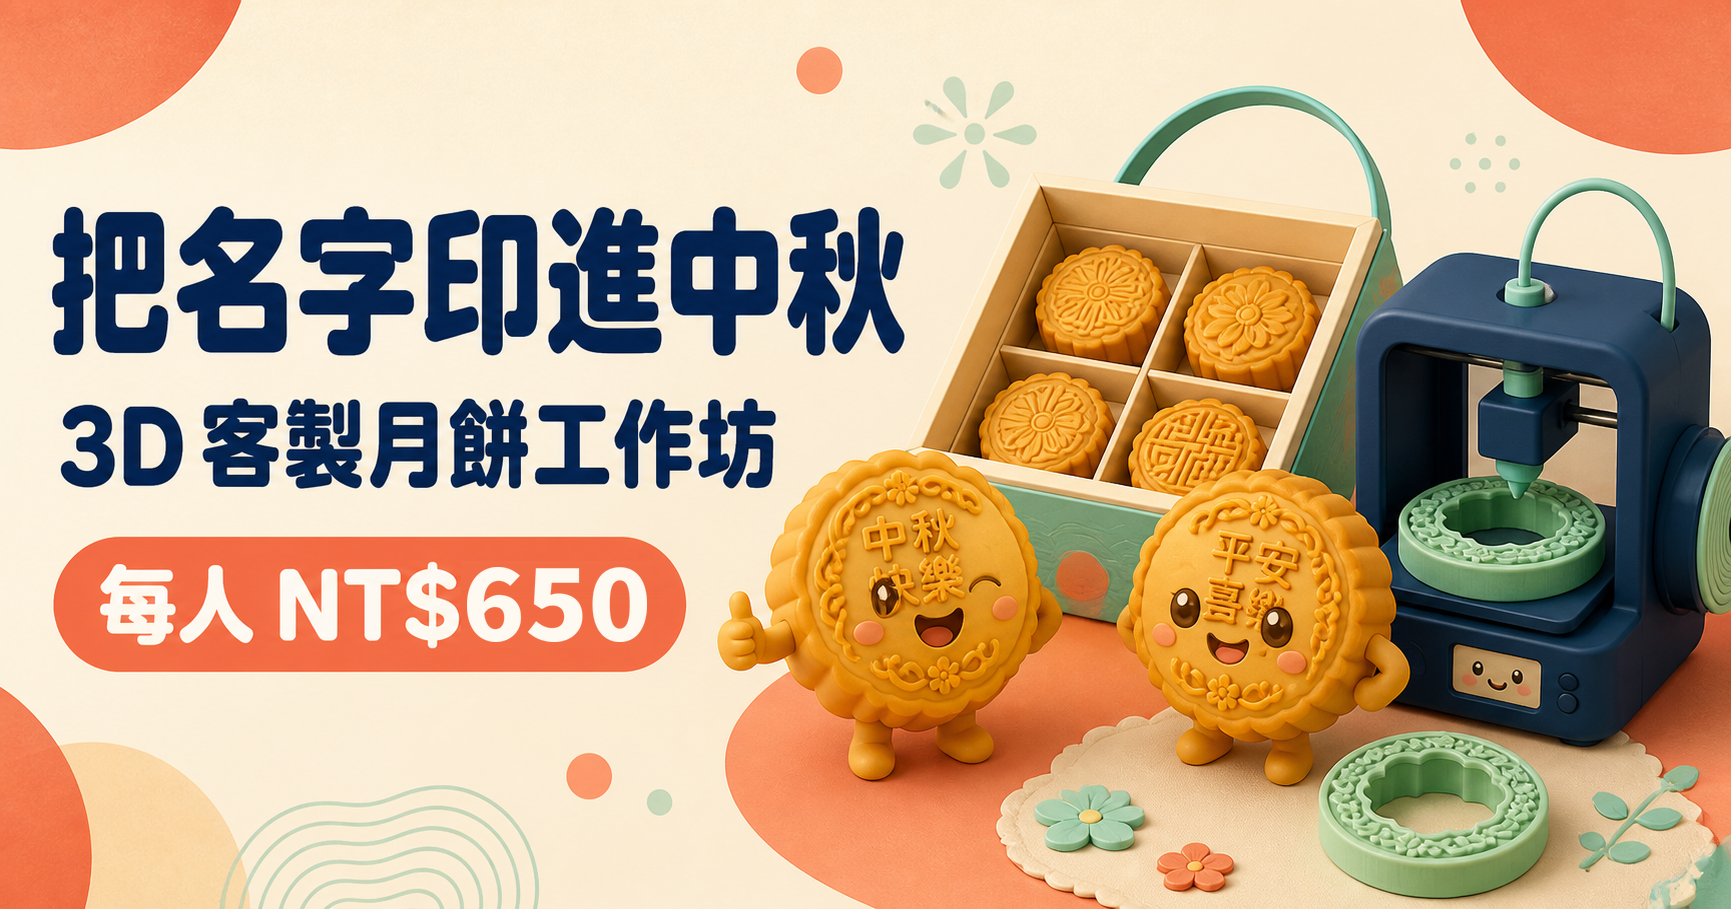
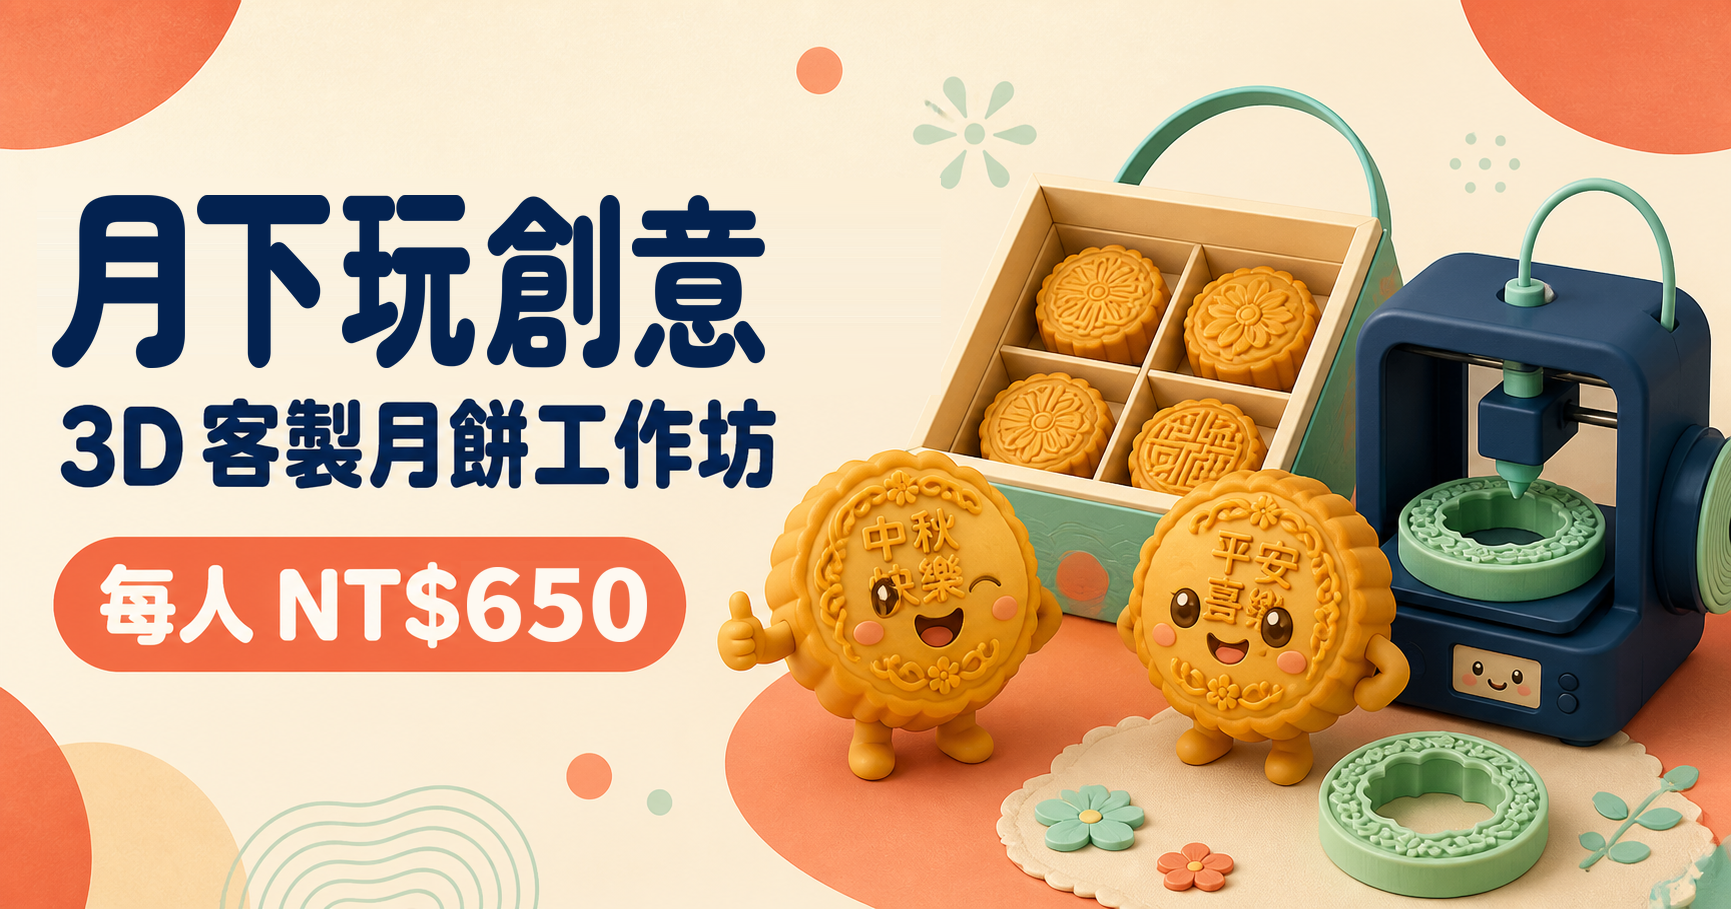
OG 分享圖上的標題也換成「月下玩創意」
貼網址時的預覽卡片，圖上那行大字原本是燒進圖片裡的「把名字印進中秋」，
改程式碼改不到。這次把舊字塗掉、用同樣的圓體重描上新名稱，
og.jpg 與 1731×909 的原始 og.png 一起更新。

同時把 socialImage 的 ?v 從 650 改成 20260901，
避免 LINE／Facebook 繼續拿快取裡的舊圖。

Claude-Session: https://claude.ai/code/session_01PEZ1t2kXAcmxRUNuUNhKqx

Changed region(s): [[0.0312, 0.2156, 0.5303, 0.4004]]

diff --git a/app/layout.tsx b/app/layout.tsx
@@ -10,7 +10,7 @@ export async function generateMetadata(): Promise<Metadata> {
   const host = requestHeaders.get("x-forwarded-host") ?? requestHeaders.get("host") ?? "localhost:3000";
   const protocol = requestHeaders.get("x-forwarded-proto") ?? (host.includes("localhost") ? "http" : "https");
   const origin = `${protocol}://${host}`;
-  const socialImage = `${origin}/og.jpg?v=650`;
+  const socialImage = `${origin}/og.jpg?v=20260901`;
 
   return {
     title,

diff --git a/CLAUDE.md b/CLAUDE.md
@@ -32,12 +32,16 @@
 - **活動日期／價格／梯次寫死在程式碼裡**：`app/page.tsx` 的 `schedule`、`process` 陣列，
   以及 `app/api/register/route.ts` 的 `sessionLabels`。改場次要**兩邊一起改**，
   只改前端會讓報名 API 因為 `sessionCode` 對不上而回 400。金額 `quantity * 650` 也在該檔。
-- **活動名稱散在四個地方，其中一個是圖片**：2026-09-01 已把預覽名稱從「把名字印進中秋」
-  改成「月下玩創意」，動到 `app/layout.tsx` 的 `title`／OG alt、`app/page.tsx` 的頁尾與
-  報名區小標、`tests/rendered-html.test.mjs` 的 assertion、README 開頭。**但兩處刻意沒改**：
-  `app/page.tsx` 的 Hero `<h1>把名字／印進中秋</h1>`，以及 `public/og.jpg` 這張分享圖——
-  圖上的大字是燒進圖片裡的，改程式碼改不到，要重新做圖再壓成 1200×630 JPG 才會變。
-  之後再改名時，先 `grep -rn "舊名稱" app tests README.md` 把文字找齊，圖片另外重做。
+- **活動名稱有一份是「畫在圖上」的**：2026-09-01 活動預覽名稱從「把名字印進中秋」改成
+  「月下玩創意」，文字部分在 `app/layout.tsx`（`title`／OG／Twitter／圖片 alt）、
+  `app/page.tsx`（頁尾、報名區小標）、`tests/rendered-html.test.mjs`、README；
+  **但 `public/og.jpg` 上那行大字是圖片本身**，改程式碼改不到，是把舊字塗掉後用
+  Zen Maru Gothic Black（圓體，`@fontsource/zen-maru-gothic` 的 japanese 900 子集）
+  重描上去的，`public/og.png`（1731×909 原始檔）也一起改，兩張要保持同步。
+  **Hero 的 `<h1>把名字／印進中秋</h1>` 是刻意保留的**，使用者決定不動那個視覺設計。
+  之後再改名：先 `grep -rn "舊名稱" app tests README.md` 把文字找齊，圖片要另外重做。
+- **換 OG 圖後要動 `app/layout.tsx` 的 `?v=` 參數**（目前 `?v=20260901`）。
+  LINE／Facebook 會把分享卡片快取住，網址沒變就有可能一直顯示舊圖。
 
 ## 部署
 

diff --git a/README.md b/README.md
@@ -133,7 +133,7 @@ Static Assets 提供，**不經過** Worker 的 `/_vinext/image` 最佳化端點
 | 用途 | 檔案 | 大小 |
 |---|---|---|
 | Hero 主視覺 | `hero-mascots-cutout.webp` | 127 KB（原 PNG 2.5 MB） |
-| OG 分享圖 | `og.jpg` 1200×630 | 156 KB（原 PNG 1.9 MB） |
+| OG 分享圖 | `og.jpg` 1200×630 | 146 KB（原 PNG 1.7 MB） |
 | Logo／favicon | `weiyan-logo-256.jpg` | 11 KB（原 156 KB） |
 
 換圖時請照這個規格壓過再放，不要直接丟原始檔。未壓縮的原圖
